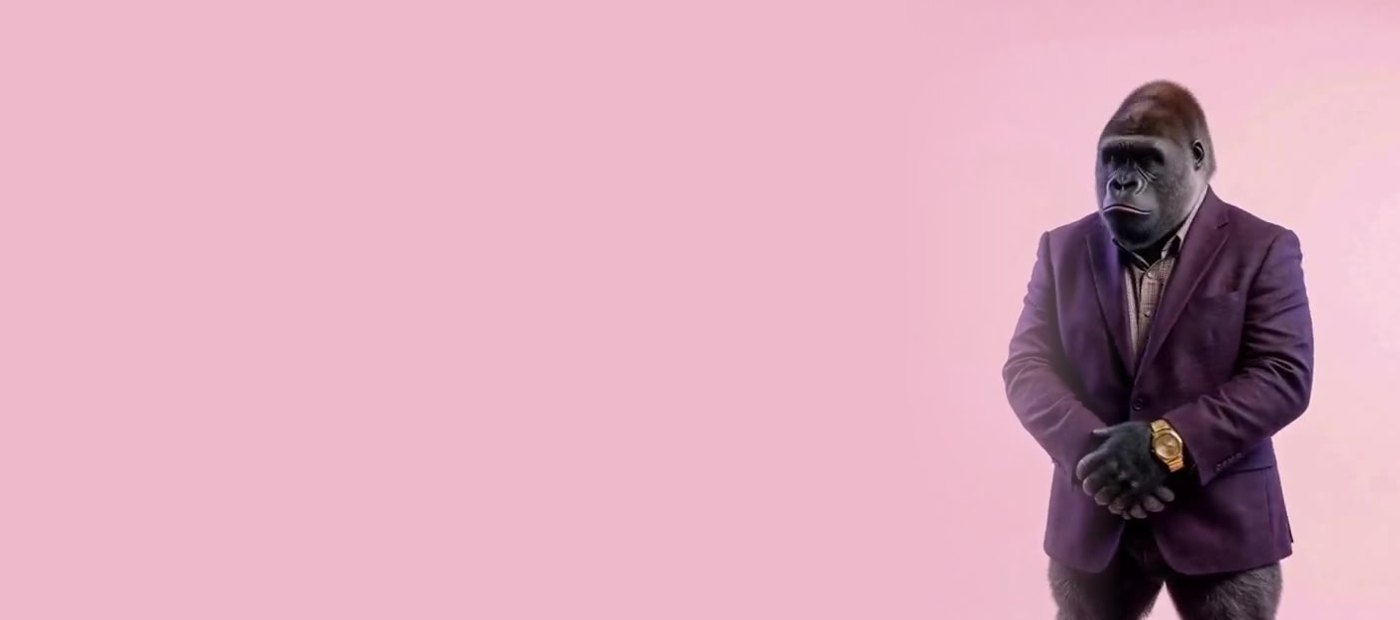
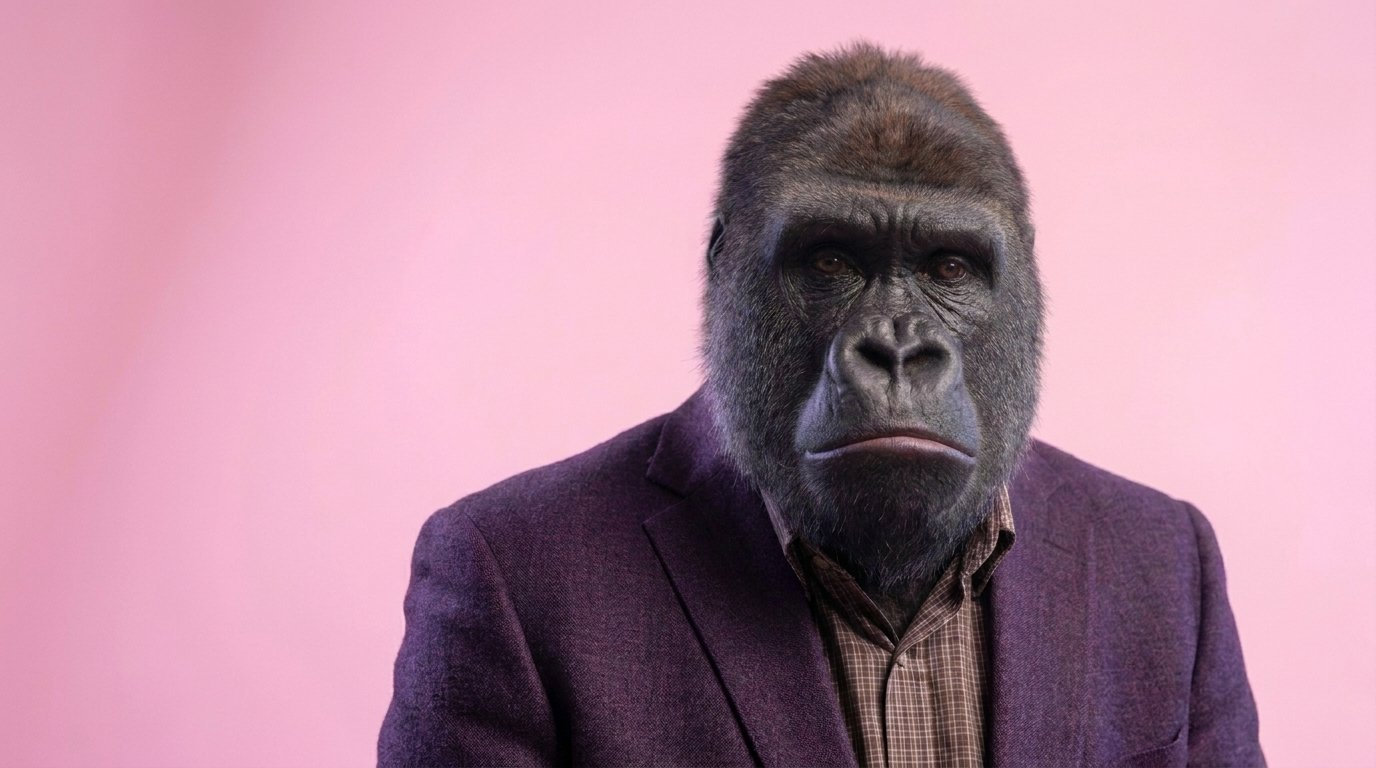
webpolice: capture load-time+popup fixes, real gorilla, richer Chinese humor voice

diff --git a/lib/i18n/webpolice.ts b/lib/i18n/webpolice.ts
@@ -204,7 +204,7 @@ const zh: WPStrings = {
   ctaIdle: '一键报警',
   ctaLoading: '出警中…',
   placeholder: '输入你的网址',
-  loadingLines: ['大猩猩小队已出发…', '正在数你首页有几个渐变…', '正在测量微软雅黑的含量…', '正在核对这张图是不是全网都在用…', '正在和真正好看的网站做对比…', '正在憋笑，请稍候…'],
+  loadingLines: ['大猩猩小队已出警，正在赶来…', '正在数你首页到底叠了几层渐变…', '正在检测「微软雅黑」含量是否超标…', '正在核对这张图是不是全网都在用…', '正在闻一闻这股班味从哪来…', '正在拉几个真好看的网站来做对比…', '正在努力憋笑，请稍候…'],
   errWall: '调查卡住了，换个网址再试试。',
   reportLabel: '网页警察出警报告',
   caseFile: '案卷：',
@@ -246,9 +246,12 @@ const zh: WPStrings = {
   ],
   languageName: 'Simplified Chinese',
   roastStyle: [
-    '用中文互联网的口语来写，像一个毒舌但好笑的设计师在小红书或知乎上吐槽，绝对不要翻译腔，不要书面报告腔，不要「总体而言」「该网站」这类词。',
-    '句子要短、要脆，可以用「辣眼睛」「土」「尬」「一眼假」「一眼模板」「五彩斑斓的黑」「微软雅黑」「建站三件套」「甲方」「祖传」这类说法，但只在真的贴切的时候用，别硬塞。',
-    '吐槽要针对你真正看到的东西（具体的颜色、字体、排版、那张图），不要泛泛而谈。可以自嘲、可以损，但别人身攻击，尺度控制在朋友之间开玩笑的程度。',
+    '你是一个毒舌但好笑的中文设计博主，在小红书 / 知乎 / 微博上吐槽网站。全程用地道的中文互联网口语，句子要短要脆。绝对不要翻译腔，不要英式幽默直译，不要书面报告腔，也不要「总体而言」「该网站」「令人」「值得一提的是」这种词。',
+    '核心是「吐槽」：面无表情地说狠话，靠夸张的比喻和精准的细节把人逗笑，而不是靠脏字或单纯骂。多用反差和自嘲——理想 vs 现实、「它以为自己是 X，其实是 Y」这种句式最好用。',
+    '可以用这些设计吐槽黑话，但必须贴切、别硬凑：阴间配色、辣眼睛、五彩斑斓的黑、土到掉渣、城乡结合部（杀马特）风、一眼模板、一眼假、复制粘贴、祖传代码、建站三件套（微软雅黑＋居中＋大红大绿）、大字报开会、群魔乱舞、车祸现场、PPT 成精、像 Word 文档流落到网上、一股班味、2008 年既视感、用爱发电、甲方审美。真好看的网站就大方夸：有松弛感、克制、留白舒服、每个像素都像有人认真决定过。',
+    '偶尔来一个谐音梗提提神就够了，别每句都玩——谐音梗玩多了是要挨打的。',
+    '只吐槽你真正看到的东西（具体的颜色、字体、间距、那张图），不要泛泛而谈。尺度是朋友之间开玩笑，损但不做人身攻击。',
+    '语感示范——好的：「这配色克制得像个成年人，难得」；差的：「这绿配这紫，阴间调色盘看了都想连夜加班」「整个首页像一张大字报在开会，谁都想当标题」「一眼建站三件套，微软雅黑居中大法好，土到亲切」。',
   ].join(' '),
   aspectTitle: { typography: '字体排版', spacing: '间距', color: '配色', clutter: '清爽度', hierarchy: '结构与层级', imagery: '图片' },
   verdict: { gorgeous: '好看得不像话', decent: '还真挺能打', average: '平平无奇', ugly: '客观上就是丑', yele: '好看到犯规 😏' },

diff --git a/app/api/webpolice/analyze/route.ts b/app/api/webpolice/analyze/route.ts
@@ -25,7 +25,7 @@ const YELE_TEXT: Record<Locale, { effortLabel: string; effortFlavor: string; sum
 // Env: ANTHROPIC_API_KEY, SCREENSHOT_API_KEY (ScreenshotOne access key).
 
 export const runtime = 'nodejs'
-export const maxDuration = 60
+export const maxDuration = 90
 
 type Charge = { code: string; title: string; detail: string; bg?: string }
 
@@ -87,11 +87,17 @@ async function shot(target: string, fullPage: boolean): Promise<ShotResult> {
   api.searchParams.set('image_quality', '72')
   api.searchParams.set('viewport_width', '1280')
   api.searchParams.set('viewport_height', '900')
-  api.searchParams.set('delay', '3') // wait 3s so the page actually finishes loading
-  api.searchParams.set('timeout', '40') // let ScreenshotOne wait out slow/heavy sites
+  // Wait for the network to go quiet, then sit for a few more seconds, so lazy
+  // images / cards / fonts have actually rendered before we shoot — otherwise
+  // the model roasts half-loaded blank boxes.
+  api.searchParams.set('wait_until', 'networkidle2')
+  api.searchParams.set('delay', '5')
+  api.searchParams.set('timeout', '35') // let ScreenshotOne wait out slow/heavy sites
+  // Dismiss the overlays that otherwise cover (and dominate) the screenshot.
   api.searchParams.set('block_cookie_banners', 'true')
   api.searchParams.set('block_ads', 'true')
   api.searchParams.set('block_chats', 'true')
+  api.searchParams.set('block_banners_by_heuristics', 'true')
   api.searchParams.set('cache', 'true')
   api.searchParams.set('cache_ttl', '86400')
   if (fullPage) {
@@ -100,7 +106,7 @@ async function shot(target: string, fullPage: boolean): Promise<ShotResult> {
   }
   try {
     const ctrl = new AbortController()
-    const to = setTimeout(() => ctrl.abort(), 45000)
+    const to = setTimeout(() => ctrl.abort(), 40000)
     const res = await fetch(api.toString(), { signal: ctrl.signal })
     clearTimeout(to)
     if (!res.ok) return { error: `screenshot ${res.status}: ${(await res.text()).slice(0, 140)}` }
@@ -170,6 +176,10 @@ Punish hard, specifically:
 - Obvious STOCK PHOTOS or obviously fake/AI-generated images → imagery must score 20–35. This is a big tell of a template.
 - Average, "safe", forgettable template designs (even if tidy) → keep the overall in the 35–50 band. "Inoffensive but generic" is NOT a 60.
 Be fair the other way too: genuinely custom, distinctive, professional sites MUST score high, and clean minimal design is good, not a crime.
+
+IMPORTANT — judge the ACTUAL website, not the screenshot's accidents:
+- If a cookie/consent/GDPR banner, newsletter popup, chat bubble, age-gate or any modal overlay covers part of the page, IGNORE it completely. Do not mention it, do not let it lower any score. Evaluate the real design behind/around it.
+- If areas look blank, grey, or half-rendered (images, cards or sections that clearly just hadn't finished loading when the photo was taken), do NOT treat that as a design crime. Judge the parts that DID render. Never criticize "empty cards" or missing content that is really just a loading artifact.
 
 Aspects (what LOW means):
 - typography: generic fonts (Poppins/Inter/Montserrat), tiny low-contrast text, weak hierarchy — cheap/generic feel.
